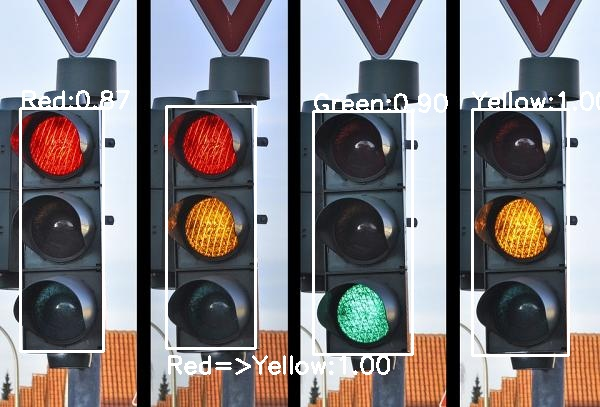
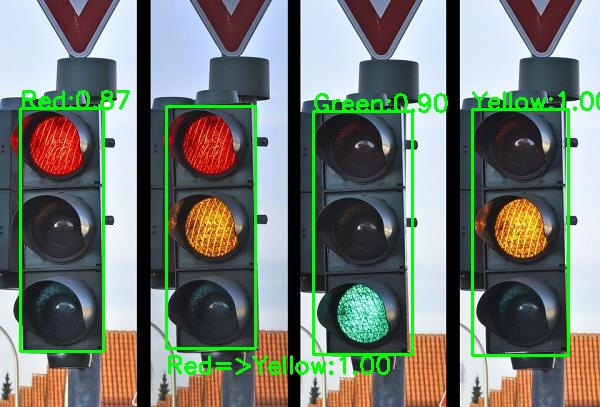
none

Changed region(s): [[0.27, 0.2064, 0.75, 0.9435], [0.78, 0.2064, 1.0, 0.8845], [0.03, 0.2064, 0.24, 0.8845]]

diff --git a/demo.py b/demo.py
@@ -35,7 +35,7 @@ class TrafficLight():
         signal, prob = pred_red_green_yellow(traffic_path_std, isDebug)  # red yellow green
         return signal, prob
 
-    def showResult(self, frame, isLabelBottom=False, isDebug=False, color=(255, 255, 255)):
+    def showResult(self, frame, isLabelBottom=False, isDebug=False, color=(0, 255, 0)):
         signal, prob = self.getSignal(frame, isDebug)
         s = signal + ':%.2f' % (prob)
         if isLabelBottom:  # sometimes the traffic lights are crowd, the text need to label at different position to avoid overlaping

diff --git a/README.md b/README.md
@@ -3,7 +3,6 @@ This repo is a simple module (**depends on the OpenCV package only**) to recogni
 
 ## Dependency
 - python 3
-- numpy
 - opencv
 
 ## Installation
@@ -11,16 +10,18 @@ To prepare the environment, it needs to install the dependent packages as listed
 ```bash
 conda create --name traffic_light python=3.5 -y
 conda activate traffic_light
-pip install opencv-python, numpy
+pip install opencv-python
 ```
 ## Quick start
 In the required python environment, clone the repo, and run the 'demo.py'.
 ```bash
 git clone https://github.com/WangLiwen1994/traffic_light.git
 cd traffic_light
+
 python demo.py
 ```
 You can see the result displayed by a window like: text denotes the color of the traffic light, the value is the confidence score (probability).
+
 ![Result](result.jpg)
 
 
@@ -31,7 +32,6 @@ from demo import TrafficLight
 
 m_light = TrafficLight(position=[xL, yT, xR, yB]) # set the position of the traffic light
 signal, prob = m_light.getSignal(img_bgr) # input the opencv image with the format of "BGR", then you can obtain the output
-
-# where "signal" stores the text of the signal name, "prob" stores the probability of the prediction. 
+# "signal" stores the text of the signal name, "prob" stores the probability of the prediction. 
 
 ```
